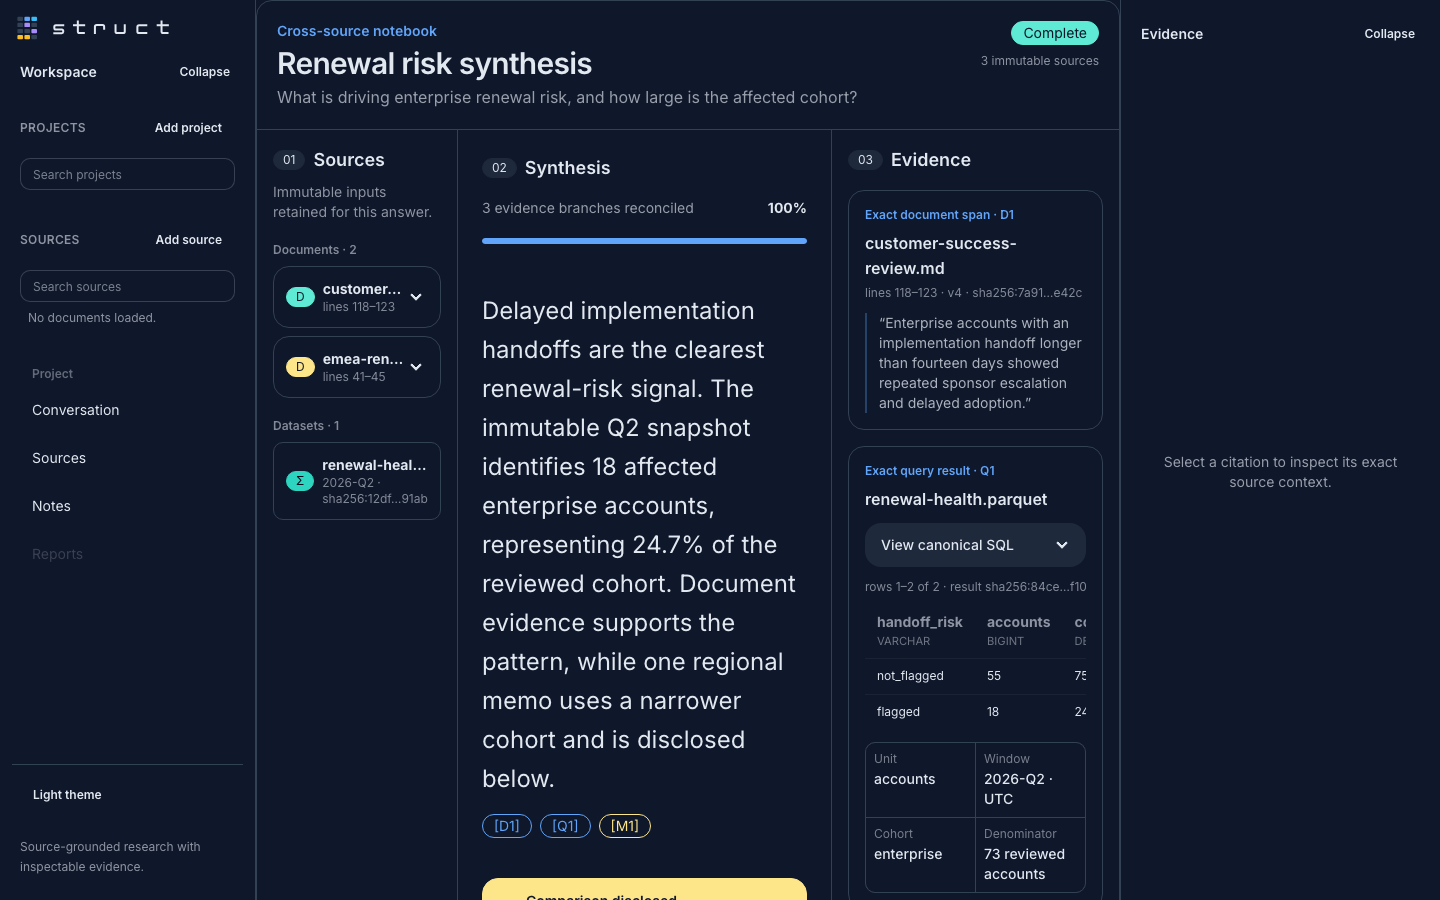
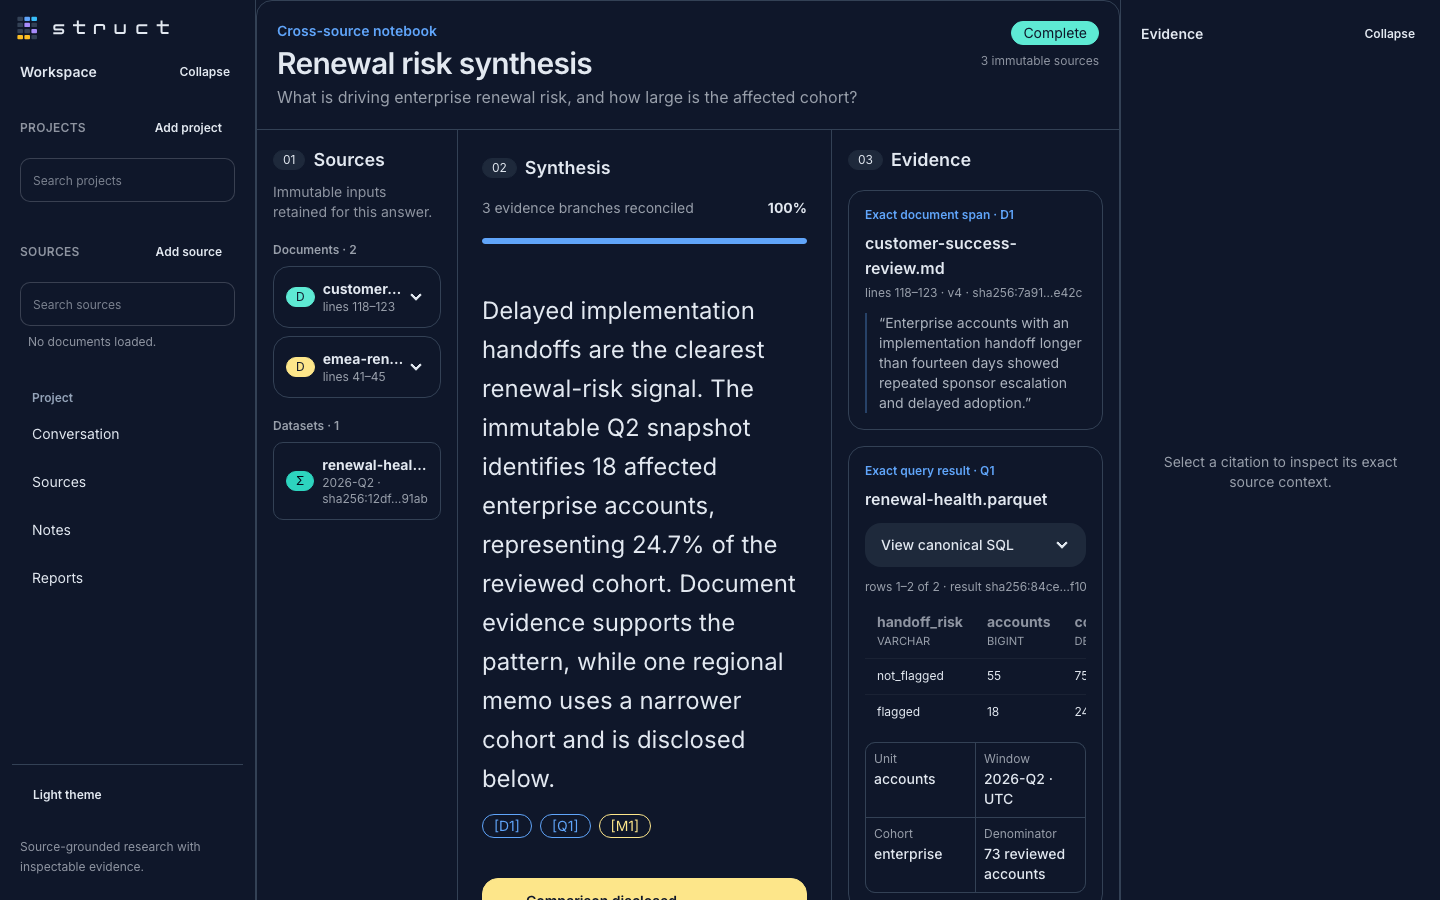
test(web): cover live mixed-source report (#139)

diff --git a/apps/web/e2e/mixed-source-report.spec.ts b/apps/web/e2e/mixed-source-report.spec.ts
@@ -145,6 +145,41 @@ describe('mixed-source report browser workflow', () => {
     }
   })
 
+  it('renders and captures the live report state across desktop/mobile light/dark', async () => {
+    const viewports = [
+      { width: 1440, height: 900 },
+      { width: 390, height: 844 },
+    ]
+    for (const viewport of viewports) {
+      for (const theme of ['light', 'dark'] as const) {
+        const page = await browser.newPage({
+          viewport,
+          reducedMotion: 'reduce',
+        })
+        const failures = observeFailures(page)
+        await page.addInitScript((selected) => {
+          window.localStorage.setItem('struct-theme', `struct-${selected}`)
+        }, theme)
+        await openDemo(page, 'live')
+        await page.getByRole('heading', { name: 'Renewal risk synthesis' }).waitFor()
+        await page.getByText('Live', { exact: true }).waitFor()
+        await waitForThemeStyles(page, theme)
+        expect(await page.locator('.app-shell').getAttribute('data-theme'))
+          .toBe(`struct-${theme}`)
+        await assertNoOverflow(page)
+        await page.screenshot({
+          path: path.join(
+            screenshotRoot,
+            `live-${viewport.width}x${viewport.height}-${theme}.png`,
+          ),
+          fullPage: false,
+        })
+        expectNoFailures(failures)
+        await page.close()
+      }
+    }
+  })
+
   it('supports keyboard exploration of citations, source spans, SQL, and rows', async () => {
     const page = await browser.newPage({ viewport: { width: 1440, height: 900 } })
     const failures = observeFailures(page)

diff --git a/.agent-vault/00_Home/Bugs_Index.md b/.agent-vault/00_Home/Bugs_Index.md
@@ -30,11 +30,10 @@ Use this note as the manual table of contents for bug records in \`03_Bugs/\`.
 _Last rebuilt: 2026-08-04._
 
 - Notes indexed: 95
-- Status summary: new (6), fixed (84), invalid (5)
+- Status summary: new (5), fixed (85), invalid (5)
 
 | Id | Title | Status | Severity | Reported | Fixed | Linear |
 | --- | --- | --- | --- | --- | --- | --- |
-| BUG-0090 | [Mixed source live demo state lacks an explicit browser regression](../03_Bugs/BUG-0090_mixed-source-live-demo-state-lacks-an-explicit-browser-regression.md) | new | sev-3 | 2026-07-28 | - | - |
 | BUG-0094 | [Evidence inspector loading and error states lack browser coverage](../03_Bugs/BUG-0094_evidence-inspector-loading-and-error-states-lack-browser-coverage.md) | new | sev-3 | 2026-07-28 | - | - |
 | BUG-0095 | [Mobile project navigation drawer makes theme switching unreachable](../03_Bugs/BUG-0095_mobile-project-navigation-drawer-makes-theme-switching-unreachable.md) | new | sev-3 | 2026-07-28 | - | - |
 | BUG-0096 | [Mobile project name input falls below the touch target baseline](../03_Bugs/BUG-0096_mobile-project-name-input-falls-below-the-touch-target-baseline.md) | new | sev-3 | 2026-07-28 | - | - |
@@ -86,6 +85,7 @@ _Last rebuilt: 2026-08-04._
 | BUG-0087 | [Research error variants lack browser coverage](../03_Bugs/BUG-0087_research-error-variants-lack-browser-coverage.md) | fixed | sev-3 | 2026-07-28 | 2026-08-04 | - |
 | BUG-0088 | [Research cancellation failure lacks browser coverage](../03_Bugs/BUG-0088_research-cancellation-failure-lacks-browser-coverage.md) | fixed | sev-3 | 2026-07-28 | 2026-08-04 | - |
 | BUG-0089 | [Removed source selection notice lacks browser coverage](../03_Bugs/BUG-0089_removed-source-selection-notice-lacks-browser-coverage.md) | fixed | sev-3 | 2026-07-28 | 2026-08-04 | - |
+| BUG-0090 | [Mixed source live demo state lacks an explicit browser regression](../03_Bugs/BUG-0090_mixed-source-live-demo-state-lacks-an-explicit-browser-regression.md) | fixed | sev-3 | 2026-07-28 | 2026-08-04 | - |
 | BUG-0091 | [Notebook finding selection and citation warning lack browser coverage](../03_Bugs/BUG-0091_notebook-finding-selection-and-citation-warning-lack-browser-coverage.md) | invalid | sev-3 | 2026-07-28 | - | - |
 | BUG-0092 | [Report export failure lacks browser coverage](../03_Bugs/BUG-0092_report-export-failure-lacks-browser-coverage.md) | invalid | sev-3 | 2026-07-28 | - | - |
 | BUG-0093 | [Add project hash focus journey lacks browser regression coverage](../03_Bugs/BUG-0093_add-project-hash-focus-journey-lacks-browser-regression-coverage.md) | invalid | sev-3 | 2026-07-28 | - | - |

diff --git a/.agent-vault/03_Bugs/BUG-0090_mixed-source-live-demo-state-lacks-an-explicit-browser-regression.md b/.agent-vault/03_Bugs/BUG-0090_mixed-source-live-demo-state-lacks-an-explicit-browser-regression.md
@@ -4,12 +4,12 @@ template_version: 2
 contract_version: 1
 title: Mixed source live demo state lacks an explicit browser regression
 bug_id: BUG-0090
-status: new
+status: fixed
 severity: sev-3
 category: testing
 reported_on: '2026-07-28'
-fixed_on: ''
-owner: unassigned
+fixed_on: '2026-08-04'
+owner: bug_0090
 created: '2026-07-28'
 updated: '2026-07-28'
 related_notes:
@@ -77,6 +77,8 @@ Use one note per bug. Capture reproduction, impact, root cause, workaround, and 
 
 - Browser regression asserting `state=live` across both themes and responsive widths.
 - Update `.local/ui-audit/inventory.md` demo-only state table to reflect `live`.
+- Completed 2026-08-04: `apps/web/e2e/mixed-source-report.spec.ts` now opens the deterministic `state=live` demo at 1440×900 and 390×844 in both light and dark themes, asserts the Live status, theme application, no horizontal overflow, and browser-failure-free rendering, then captures screenshots under `docs/demos/mixed-source-research/`.
+- Verified with `bun test --timeout 60000 --max-concurrency 1 apps/web/e2e/mixed-source-report.spec.ts` (6 pass), `bun --bun tsc --noEmit --project apps/web/tsconfig.json`, and Agent Vault validation.
 
 ## Related Notes
 
@@ -91,3 +93,4 @@ Use one note per bug. Capture reproduction, impact, root cause, workaround, and 
 <!-- AGENT-START:bug-timeline -->
 - 2026-07-28 - Reported.
 <!-- AGENT-END:bug-timeline -->
+- 2026-08-04 - Fixed: added deterministic live-state browser coverage with light/dark desktop/mobile screenshots and assertions.
